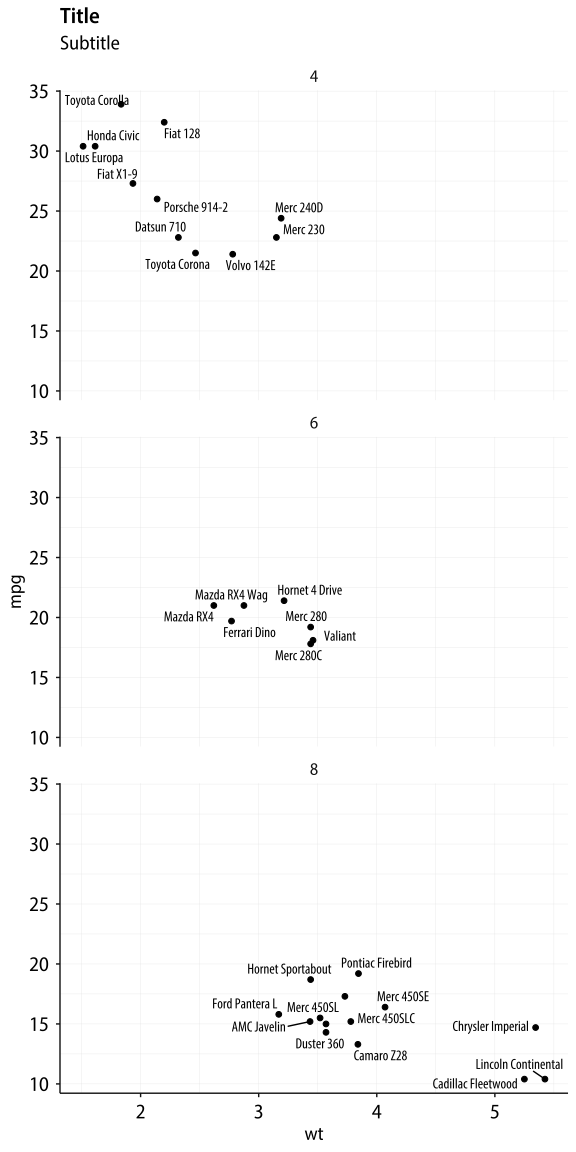
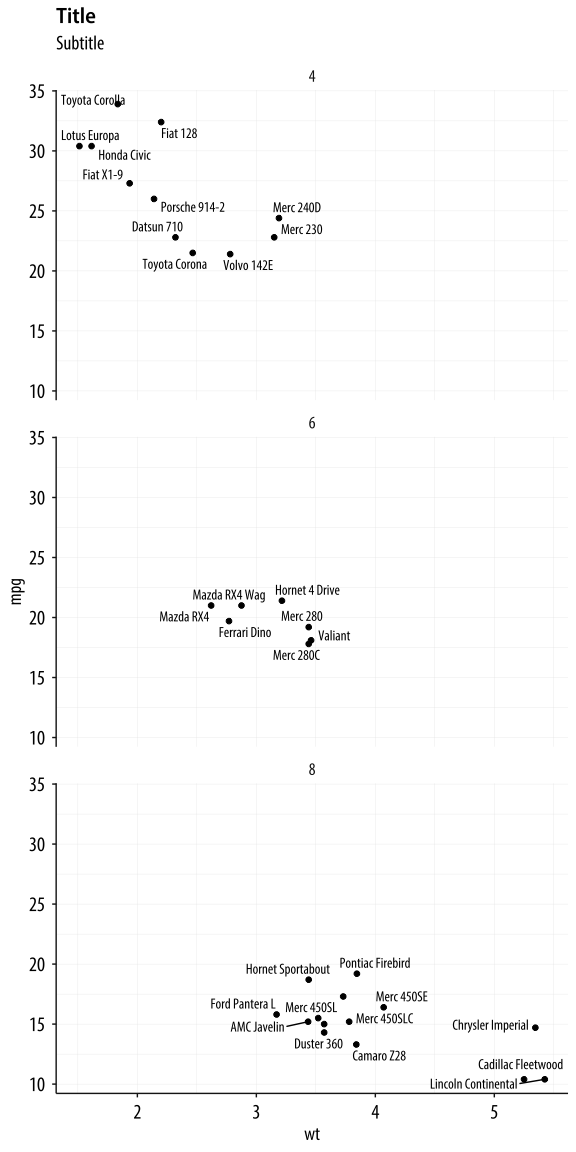
Fix broken images

diff --git a/README.md b/README.md
@@ -117,7 +117,7 @@ p <- ggplot(mtcars,
 p
 ```
 
-<img src="man/figures/README-unnamed-chunk-4-1.png" alt="" width="100%" />
+<img src="man/figures/README-unnamed-chunk-3-1.png" alt="" width="100%" />
 
 # Check PDF works
 
@@ -141,7 +141,7 @@ out <- mtcars |>
 out
 ```
 
-<img src="man/figures/README-unnamed-chunk-6-1.png" alt="" width="100%" />
+<img src="man/figures/README-unnamed-chunk-5-1.png" alt="" width="100%" />
 
 ## Check PDF works
 
